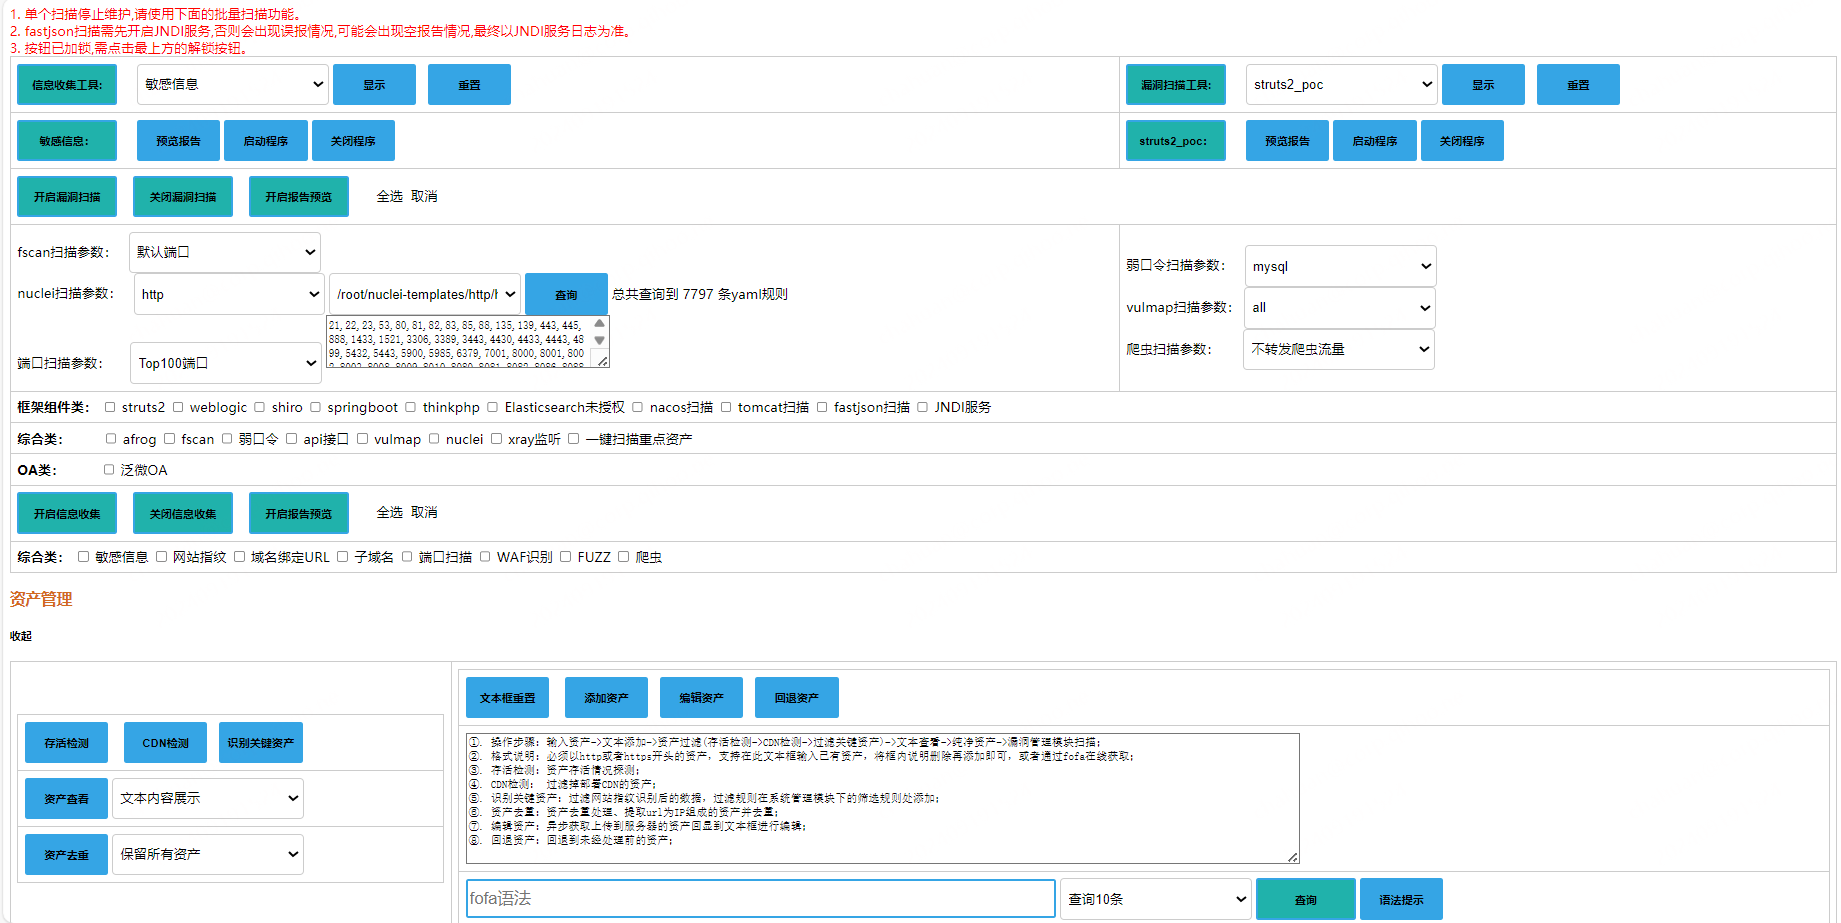
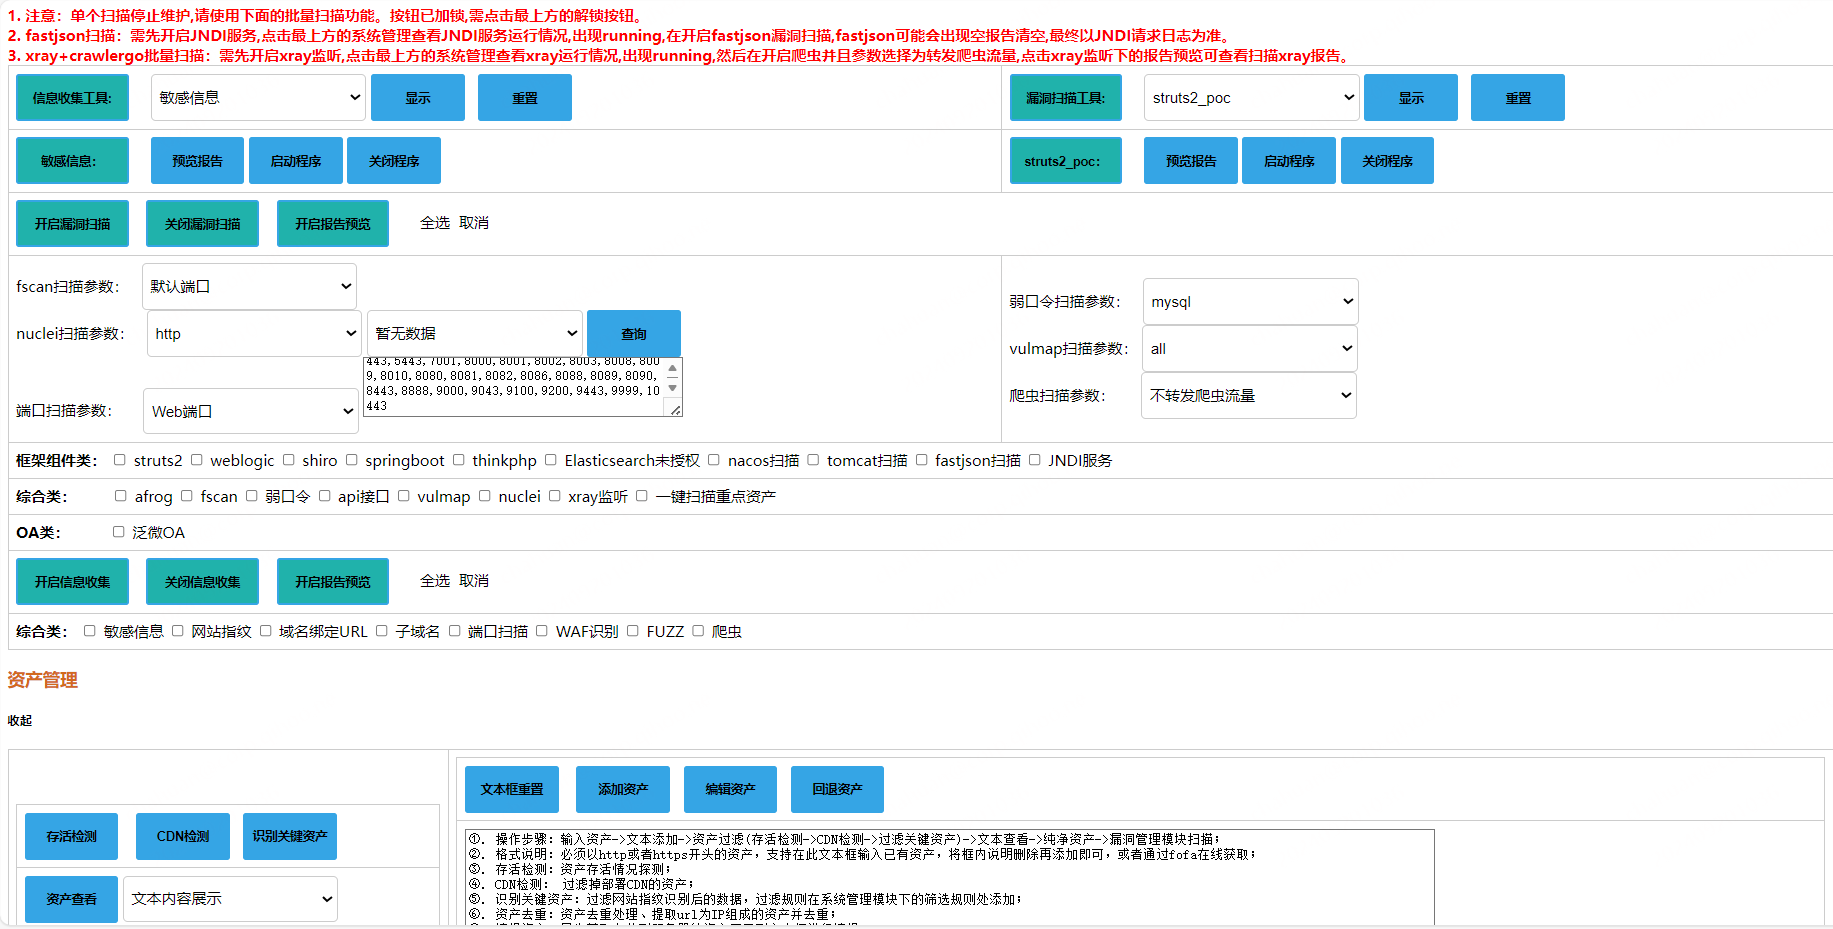
已知问题处理

Changed region(s): [[0.0, 0.0, 0.9951, 1.0], [0.9951, 0.0607, 1.0, 0.6067], [0.9951, 0.7281, 1.0, 1.0]]

diff --git a/templates/index.html b/templates/index.html
@@ -172,7 +172,7 @@
 					<th>名称</th>
 					<td>端口扫描</td>
 					<td>nuclei POC扫描</td>
-					<td>xray扫描</td>
+					<td>xray监听</td>
 					<td>rad扫描</td>
 					<td>目录扫描</td>
 					<td>weblogic漏洞扫描</td>
@@ -534,9 +534,9 @@
 	<h5 onclick="vulnmanagerzhankaifunc()" id="vulnid2" style="cursor: pointer;">展开</h3>
 		<h5 onclick="vulnmanagerzhediefunc()" id="vulnid3" style="display:none; cursor: pointer;">收起</h5>
 		<div style="display:none;" id="vulnid1">
-			<span style="color:red">1. 单个扫描停止维护,请使用下面的批量扫描功能。</span><br>
-			<span style="color: red">2. fastjson扫描需先开启JNDI服务,否则会出现误报情况,可能会出现空报告情况,最终以JNDI服务日志为准。</span><br>
-			<span style="color: red">3. 按钮已加锁,需点击最上方的解锁按钮。</span><br>
+			<span style="color:red"><strong>1. 注意：单个扫描停止维护,请使用下面的批量扫描功能。按钮已加锁,需点击最上方的解锁按钮。</strong></span><br>
+			<span style="color: red"><strong>2. fastjson扫描：需先开启JNDI服务,点击最上方的系统管理查看JNDI服务运行情况,出现running,在开启fastjson漏洞扫描,fastjson可能会出现空报告清空,最终以JNDI请求日志为准。</strong></span><br>
+			<span style="color: red"><strong>3. xray+crawlergo批量扫描：需先开启xray监听,点击最上方的系统管理查看xray运行情况,出现running,然后在开启爬虫并且参数选择为转发爬虫流量,点击xray监听下的报告预览可查看扫描xray报告。</strong></span><br>
 			<table border="1">
 				<tr>
 					<td>

diff --git a/scan_main_web.py b/scan_main_web.py
@@ -2677,19 +2677,19 @@ def vulnscan_check_back():
                     fastjson_status_result = "fastjson漏洞扫描程序"+str(info_time_controls)+"分钟内不允许重复扫描"
             elif 'j' in str(k):
                 print("开启xray被动监听")
-                xray_status_result = basic.startxray_lib()
-                # # 获取系统当前时间
-                # current_time19 = time.time()
-                # # 当前时间和数据库中的作时间差
-                # diff_time_minutes19 = basic.vuln_time_shijian_cha(19)
-                # if int(diff_time_minutes19) > vuln_time_controls:
-                #     # 超过单位时间更新数据库中的时间
-                #     basic.vuln_last_time_update_lib(current_time19,19)
-                #     # 提交扫描任务
-                #     xray_status_result = basic.startxray_lib()
+                # xray_status_result = basic.startxray_lib()
+                # 获取系统当前时间
+                current_time19 = time.time()
+                # 当前时间和数据库中的作时间差
+                diff_time_minutes19 = basic.vuln_time_shijian_cha(19)
+                if int(diff_time_minutes19) > vuln_time_controls:
+                    # 超过单位时间更新数据库中的时间
+                    basic.vuln_last_time_update_lib(current_time19,19)
+                    # 提交扫描任务
+                    xray_status_result = basic.startxray_lib()
                                  
-                # else:
-                #     xray_status_result = "xray漏洞扫描程序"+str(info_time_controls)+"分钟内不允许重复扫描"
+                else:
+                    xray_status_result = "xray漏洞扫描程序"+str(info_time_controls)+"分钟内不允许重复扫描"
 
             elif 'd' in str(k):
                 print("重点资产")
@@ -3070,7 +3070,9 @@ def stop_vulnscan_back():
             elif 'h' in str(j):                
                 kill_jndi_result = basic.stopjndi_lib()
             elif 'i' in str(j):                
-                kill_fastjson_result = basic.stopfastjson_lib()    
+                kill_fastjson_result = basic.stopfastjson_lib()
+            elif 'j' in str(j):                
+                kill_fastjson_result = basic.stop_xray_lib()
             elif 'd' in str(j):                
                 kill_point_assset_result = "勾选struts2,weblogic,shiro,springboot进行相关操作"        
         try:

diff --git a/basic.py b/basic.py
@@ -1886,6 +1886,19 @@ def startxray_lib():
     return xraystatus_result
 
 
+
+# 关闭xray程序
+def stop_xray_lib():
+    xray_status = os.popen('bash /TIP/info_scan/finger.sh xraystatus').read()
+    os.popen('bash /TIP/info_scan/finger.sh stopxrayscan')
+    if "stop" in xray_status:
+        kill_xray_result = "已关闭xray监听程序"
+    else:
+        kill_xray_result = "正在关闭中......"
+    return kill_xray_result
+
+
+
 if __name__ == "__main__":
     if len(sys.argv) > 1:
         func_name = sys.argv[1]

diff --git a/readme.md b/readme.md
@@ -17,9 +17,9 @@
 - [info_scan](https://github.com/huan-cdm/info_scan)：漏洞扫描主系统<br>
 - [batch_scan_domain](https://github.com/huan-cdm/batch_scan_domain)：xray+rad批量扫描，通过info_scan进行控制<br>
 <h2>集成相关工具：</h2> <br>
-漏洞扫描类：struts2、weblogic、shiro、springboot、thinkphp、泛微OA、tomcat、fastjson、marshalsec、nacos <br>
-综合漏洞扫描类：afrog、fscan、hydra、urlfinder、vulmap、nuclei <br>
-信息收集类：bbscan、ehole、nmap、otx威胁情报、crt子域名、crawlergo<br>
+漏洞扫描类：struts2、weblogic、shiro、springboot、thinkphp、泛微OA、tomcat、fastjson、marshalsec、nacos、elasticsearch、tomcat <br>
+综合漏洞扫描类：afrog、fscan、hydra、urlfinder、vulmap、nuclei、xray <br>
+信息收集类：bbscan、ehole、nmap、otx威胁情报、crt子域名、crawlergo、waf识别、FUZZ<br>
 相关工具逐步完善......
 <br><br>
 <h2>更新日志：</h2>
@@ -28,7 +28,7 @@
 2024-09-18更新<br> 
 1. 新增爬虫扫描；<br>
 2. 新增爬虫扫描流量代理；<br>
-3. xray网页启动正在开发中<br>
+3. xray+crawlergo联动批量扫描<br>
 4. 已知问题处理；<br>
 </li>
 <li>
